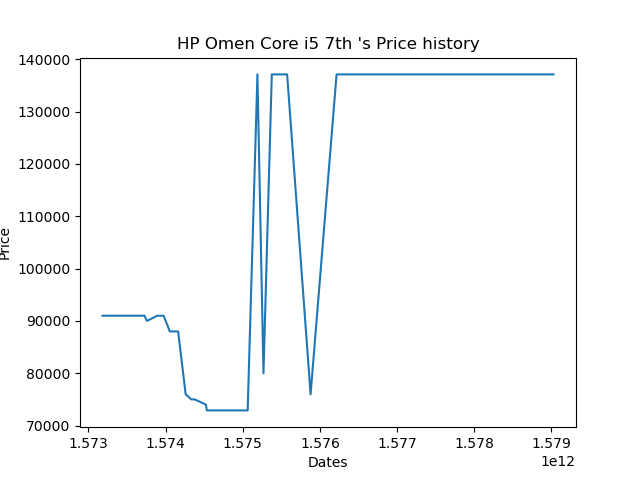
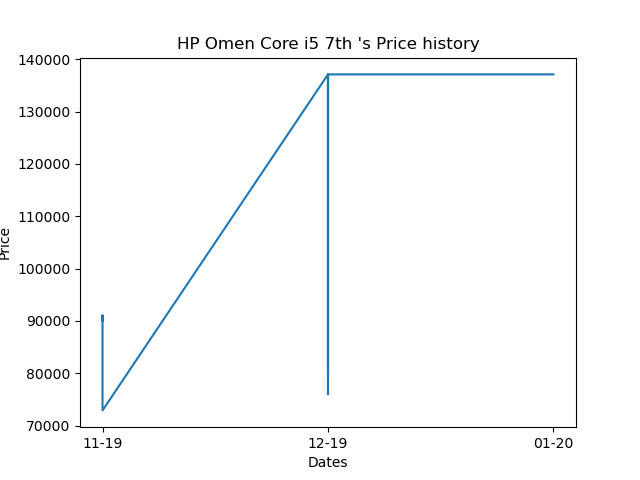
time added

diff --git a/templates/your_url.html b/templates/your_url.html
@@ -9,13 +9,14 @@
 <head>
     <meta charset="UTF-8">
     <title>Title</title>
+    <link rel="stylesheet" href="{{ url_for('static',filename='css/styles.css')}}">
 </head>
 <body>
-    <p>{{graph}}</p>
-<div class="image">
-
-        <img src="{{ url_for('static',filename=graph)}}" alt="chart">
-
+<!--    <p> Python's flask look this path for the image {{graph}}</p>-->
+<div>
+    <center>
+        <img class="image" src="{{ url_for('static',filename=graph)}}" alt="chart" style="border-radius : 25px; padding: 20px; width : 50%; height : 30%; box-shadow: 0 10px 50px 0 rgba(0, 0, 0, 0.2), 0 6px 20px 0 rgba(0, 0, 0, 0.19);">
+</center>
 </div>
 <!--    <img src="{{ url_for('static',filename=graph)}}" alt="chart">-->
 <!--<img src="{{ url_for('static',filename=graph)}}" alt="chart">-->

diff --git a/static/css/temp.html b/static/css/temp.html
@@ -1,0 +1,18 @@
+<!DOCTYPE html>
+<html lang="en">
+<head>
+    <meta charset="UTF-8">
+    <title>Title</title>
+    <link rel="stylesheet" href="styles.css">
+</head>
+<body>
+    <p>{{graph}}</p>
+<div >
+
+        <img class="image" src="Acer Nitro 5.png" alt="chart">
+
+</div>
+<!--    <img src="{{ url_for('static',filename=graph)}}" alt="chart">-->
+<!--<img src="{{ url_for('static',filename=graph)}}" alt="chart">-->
+</body>
+</html>

diff --git a/static/css/styles.css b/static/css/styles.css
@@ -1,0 +1,6 @@
+.image{
+    border-radius : 25px;
+    padding: 20px;
+    width : 45%;
+    box-shadow: 0 10px 50px 0 rgba(0, 0, 0, 0.2), 0 6px 20px 0 rgba(0, 0, 0, 0.19);
+}

diff --git a/temp.py b/temp.py
@@ -30,8 +30,8 @@ def returnProductURL(product_name):
 
 
 
-def plotter(product_name):
-    with open(product_name + ".csv") as csv_file:
+def plotter(productname):
+    with open(productname + ".csv") as csv_file:
         # Phase 1 - Retrieving data from csv file -------------------------------------------------------------------------------
         csv_reader = csv.reader(csv_file)
         listOfAttributes = []
@@ -109,16 +109,20 @@ def plotter(product_name):
         for i in range(0, len(listTimeX)):
             dateTimeList.append(convertTimestampToDate(listTimeX[i]))
 
+            # dateTimeList.append(timestamp_to_datetimeobj)
+            # dateTimeList[i].strftime('%m/%d/%y')
+        # print(dateTimeList)
+
         dateTimeList_to_month_year = []
 
-        for i in range(0, len(listTimeX)):
+        for i in range(0 ,len(listTimeX)):
             dateTimeList_to_month_year.append(dateTimeList[i].strftime('%m-%y'))
+
 
         lableListX = []
 
         for i in range(0, len(dateTimeList)):
             lableListX.append(str(dateTimeList[i])[5:10])
-
         # #print(lableListX)
         #
         plt.xlabel("Dates")
@@ -148,10 +152,16 @@ def plotter(product_name):
         # print(lableListXSmall)
         # print(listTimeXSmall)
         # print(listPriceYSmall)
+
+        # The length of both lisTimeX and dateTimeList_to_month_year is same so dont worry by seeing the graph
+        # we have only 62 dates thats why if we plot the graph then we got 3 month i.e. 3 entries on X axis so if we have much data about  timestamps then it can perform better
+        print(len(listTimeX))
+        print(len(dateTimeList_to_month_year))
+
         plt.plot(dateTimeList_to_month_year, listPriceY)
         plt.title(titleOfProduct[0:20] + "'s Price history")
         # plt.xticks(listTimeX, lableListX)
-
+#
         path = "static/"
         data = path + product_name + ".png"
 
@@ -159,3 +169,5 @@ def plotter(product_name):
         img_path = str(product_name) + ".png"
         # img_path = "images/" + str(product_name) + ".png"
         return img_path
+
+# productName = "Acer Nitro 5"
